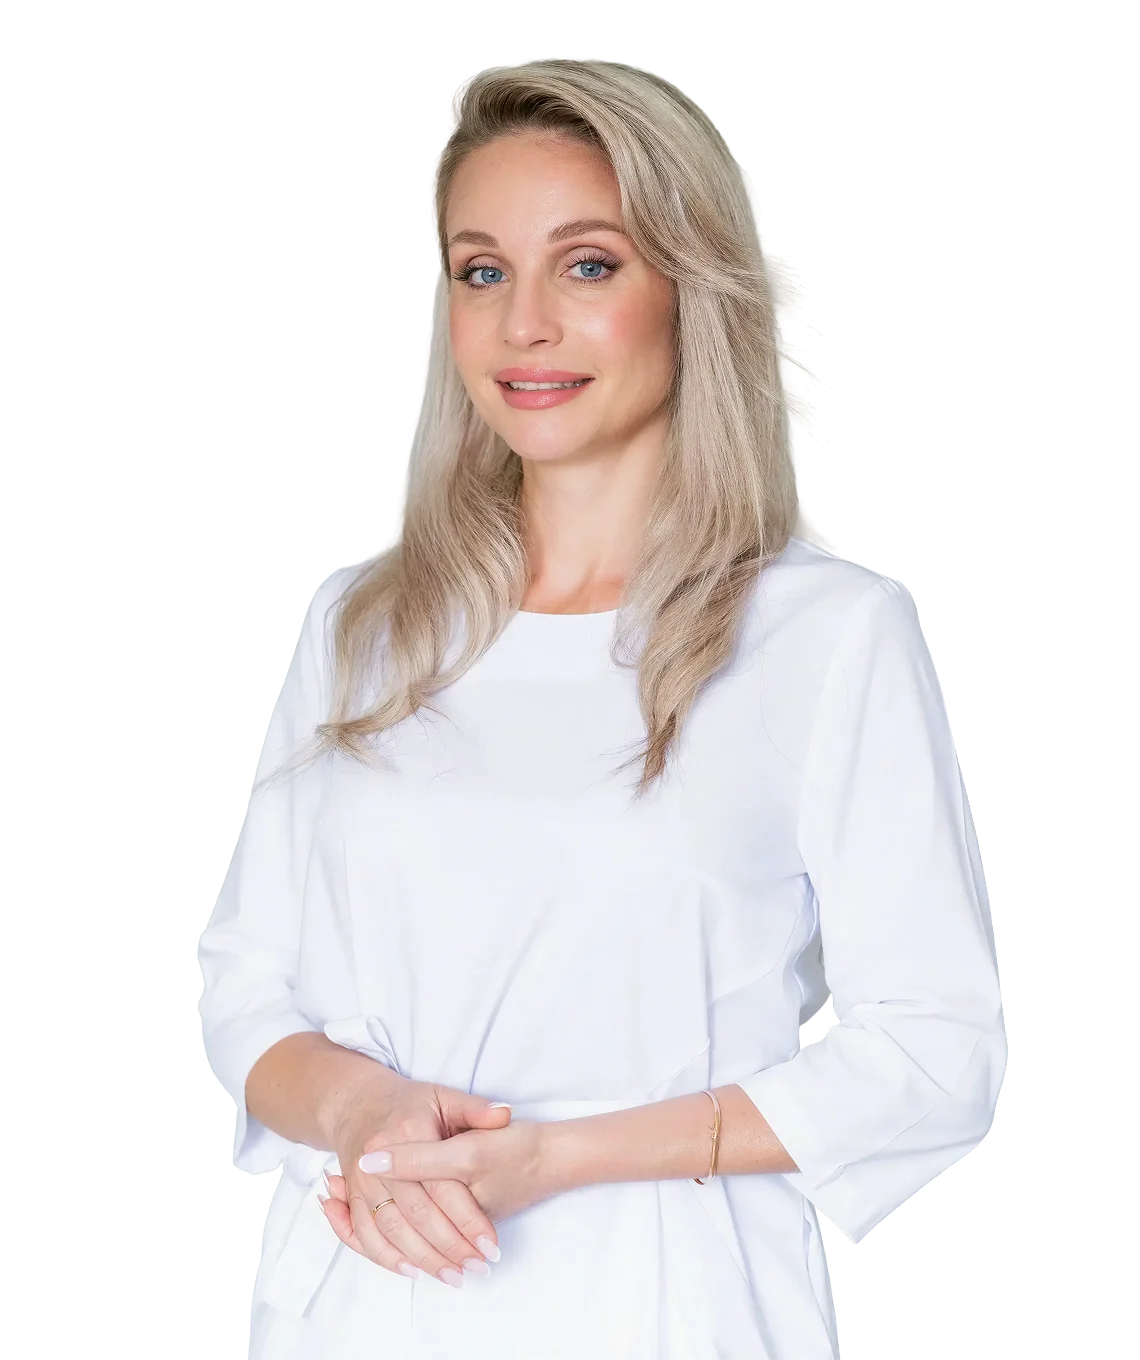
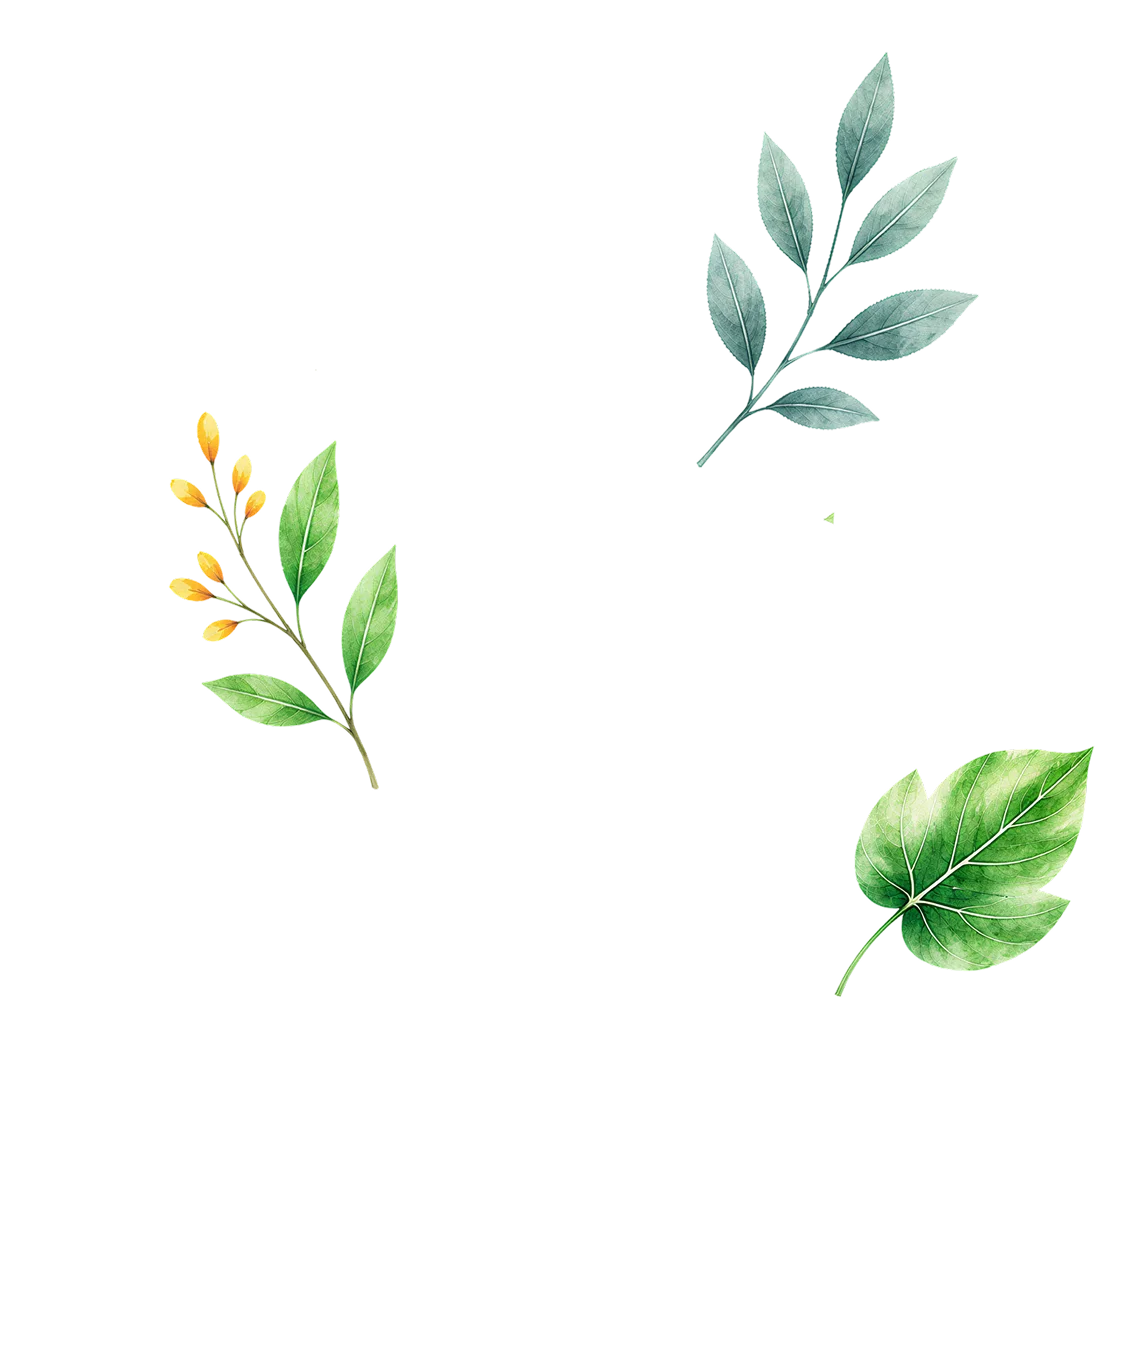
Ok

Changed region(s): [[0.1535, 0.0309, 0.9518, 1.0], [0.2149, 0.9574, 0.2456, 1.0], [0.4298, 0.7103, 0.4605, 0.7412]]

diff --git a/styles.css b/styles.css
@@ -504,20 +504,16 @@ input {
   transition: transform 120ms ease-out;
 }
 
-.dantist-hero__layer--4 {
+.dantist-hero__layer--3 {
   transform: translate3d(calc(var(--parallax-x) * -8px), calc(var(--parallax-y) * -4.5px), 0) scale(1.015);
 }
 
-.dantist-hero__layer--3 {
-  transform: translate3d(calc(var(--parallax-x) * 10px), calc(var(--parallax-y) * 6px), 0) scale(1.025);
-}
-
 .dantist-hero__layer--2 {
-  transform: translate3d(calc(var(--parallax-x) * 18px), calc(var(--parallax-y) * 10.5px), 0) scale(1.04);
+  transform: translate3d(calc(var(--parallax-x) * 6px), calc(var(--parallax-y) * 3.5px), 0) scale(1.02);
 }
 
 .dantist-hero__layer--1 {
-  transform: translate3d(calc(var(--parallax-x) * 28px), calc(var(--parallax-y) * 16.5px), 0) scale(1.06);
+  transform: translate3d(calc(var(--parallax-x) * 18px), calc(var(--parallax-y) * 10.5px), 0) scale(1.04);
 }
 
 @media (max-width: 1188px) {

diff --git a/index.html b/index.html
@@ -80,7 +80,6 @@
           </div>
 
           <div class="dantist-hero__image" aria-hidden="true">
-            <img class="dantist-hero__layer dantist-hero__layer--4" src="assets/layer-4.webp" alt="" />
             <img class="dantist-hero__layer dantist-hero__layer--3" src="assets/layer-3.webp" alt="" />
             <img class="dantist-hero__layer dantist-hero__layer--2" src="assets/layer-2.webp" alt="" />
             <img class="dantist-hero__layer dantist-hero__layer--1" src="assets/layer-1.webp" alt="" />